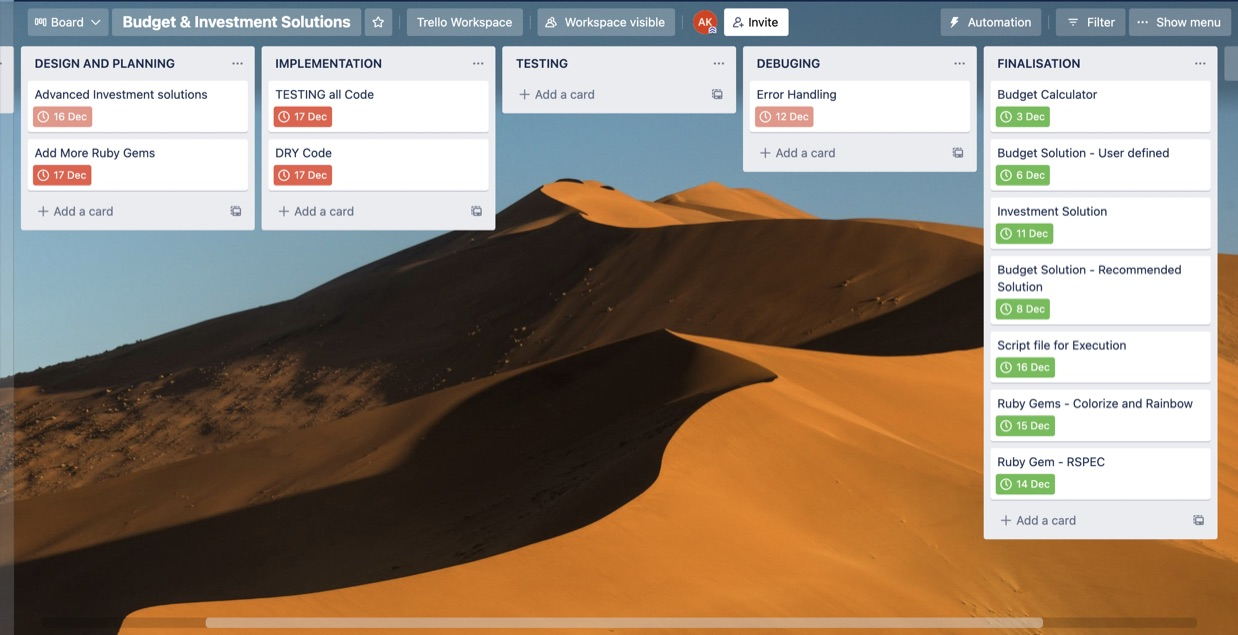
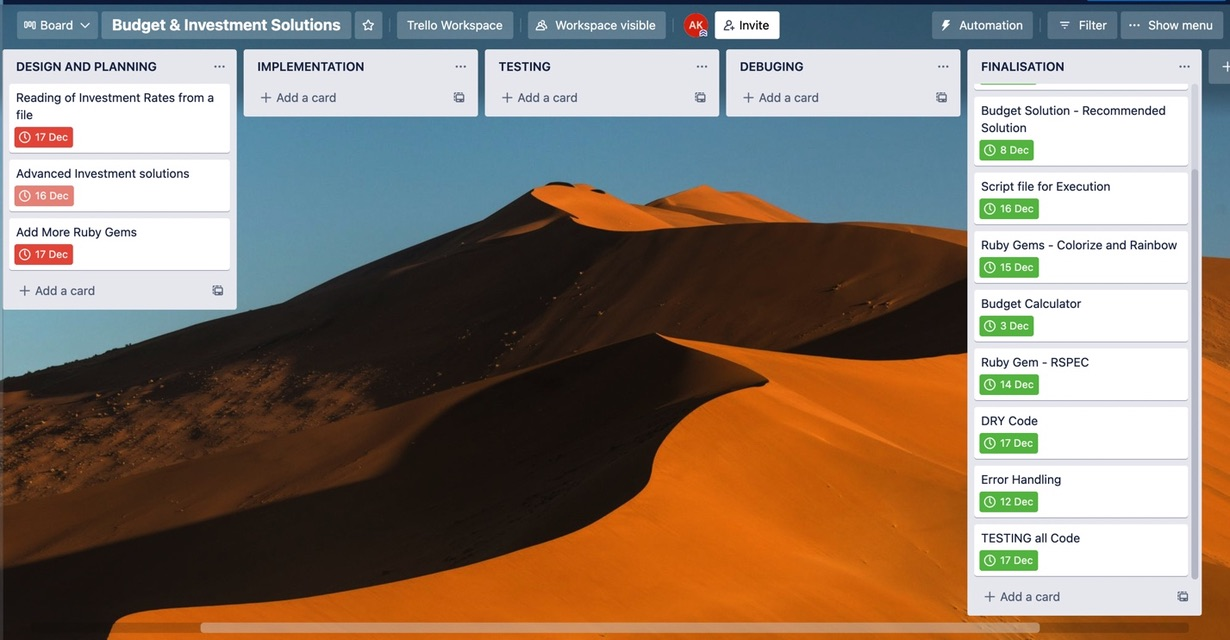
final adjustments done to code and Readme

diff --git a/src/methods.rb b/src/methods.rb
@@ -29,25 +29,31 @@ end
 
 def personal_Income(income_arr_categories)
     puts "We will now ask you for your Income details"
-    
+    income_file = File.open("Report.txt", "w")
+income_file.puts "ENTERED INCOMES:\n"
     income_arr = []
     for index in 0..(income_arr_categories.length-1) do
         puts "How much is your #{income_arr_categories[index]}/week?"
+    
         income_arr[index] = test_integer(gets.chomp)
+        income_file. puts"#{income_arr_categories[index]}=#{income_arr[index]}"
     end
+    income_file.close
     return income_arr
     #return (income_arr.sum).to_i
 end
 
 def personal_expense(expense_arr_categories )
     puts "We will now ask you for your Expense details"
-   
+    expense_file = File.open("Report.txt", "a")
+    expense_file.puts "ENTERED EXPENSES:\n"
     expense_arr = []
     for index in 0..(expense_arr_categories.length-1) do
         puts "How much is your #{expense_arr_categories[index]}/week?"
         expense_arr[index] = test_integer(gets.chomp)
+        expense_file. puts"#{expense_arr_categories[index]}=#{expense_arr[index]}"
     end
-    #return (expense_arr.sum).to_i 
+    expense_file.close
     return expense_arr
 end
 
@@ -174,7 +180,7 @@ def Increase_income_budget(income_value_arr, income_value_budgetarr, expense_val
 end
 
 def Print_expense_budget_Report(expense_cat_arr, expense_value_arr, expense_value_budgetarr) 
-    budgetreport_file = File.new("Report.txt", "w")
+    budgetreport_file = File.open("Report.txt", "a")
     puts "Your current expense is #{expense_value_arr.sum}"
     puts "Your expense can be budgeted to #{expense_value_budgetarr.sum} by doing the following:"
 

diff --git a/src/main.rb b/src/main.rb
@@ -7,15 +7,11 @@ begin
     personal_expense_categories = ["Groceries","School Fees", "Shopping", "Entertainment", "Rent/Mortgage","Other Expenses"]
     personal_income_priority = [0,2,1,3]
     personal_expense_priority = [3,2,0,5,4,1]
-    personal_income_arr = [200,100,100,100]
-    personal_expense_arr = [100,100,100,500,180,300]
     personal_income_budgetarr = []
     personal_expense_budgetarr = []
     savings_rates = [1, 2, 3, 2, 4, 6, -1, 5, 10]
     savings_rates_cat = ["Conservative Minimum", "Conservative Medium", "Coservative Max", "Balanced Minimum", "Balanced Medium", "Balance Max", "High Risk Minimum", "High Risk Medium", "High risk Max" ]
     
-
-
 
     welcome_msg
 
@@ -40,7 +36,10 @@ begin
     savings = test_integer(gets.chomp)
     puts "How many years do you want to see the savings grow"
     years = test_integer(gets.chomp)
-    
+    investment_file = File.open("Report.txt", "a")
+    investment_file.puts"\nINVESTMENT SOLUTIONS"
+    investment_file.puts" Investmetn Income = #{savings}\n"
+    investment_file.puts"\nYears to Invest = #{years}"
     for index in 0..8 do
 
         calc = ((savings_rates[index])/100.0)
@@ -48,7 +47,11 @@ begin
         result = savings * (1 + calc/12) ** (12*years)
 
         puts "Your savings for #{savings_rates_cat[index]} after #{years}years is $#{result.to_i}"
+        investment_file.puts "Your savings for #{savings_rates_cat[index]} after #{years}years is $#{result.to_i}"
     end
+investment_file.close
+
+# Error Handling
 
     rescue ZeroDivisionError
         puts "You can not divide by Zero"

diff --git a/src/methods_spec.rb b/src/methods_spec.rb
@@ -24,11 +24,6 @@ describe "test_integer" do
 
 end
 
-  # describe "questions" do 
-  #     it "should only accept Y" do
-  #          expect(questions("Y")).to eq("\t\tGreat. We will first ask you a few quesitons on your income")
-  #      end  
-  # end
   describe "budget_calculator" do
 
     it "should convert string numbers to integers" do

diff --git a/README.md b/README.md
@@ -75,7 +75,11 @@ This is the feature of the code where the user's current budget Result is displa
 
 ![BudgetResult](BudgetCalc.jpeg)
 
-Error handling here is taken care of at the inputs by ensuring that only necessary integers are allowed to be entered by the user.
+**Error handling** here is taken care of at the inputs by ensuring that only necessary integers are allowed to be entered by the user. A flow chart on how this is taken care of is shown below:
+
+![Error_handling1](Error_handling1.jpeg)
+
+As shown above if the user input is not an integer then Integer(User input) will cause an error. This will let Num be False and as a result through a rescue block the User is prompted to enter an integer. This will repeat until the user enters an actual integer
 
 ### B. User Driven Budget Solution
 
@@ -86,14 +90,21 @@ The user-driven budget solution as shown in the flow diagram below allows the us
 3. 20%
 
 Then the user has the choice to implement the same operation on another income or expense category. The user is allowed to do this until he/she chooses to stop. Once this is chosen then the process moves the the next feature. 
-
-Error-handling is taken care of at all inputs to make sure that the user only enther integers where necessary and either a "Y" or "N" where necessary.
-
 ![UserDriven](Customised.jpeg)
+
+**Error-handling** is taken care of at all inputs to make sure that the user only either integers where necessary and either a "Y" or "N" where necessary. Integer inputs are ensured the same way as shown in the flow diagram under Budget Result. The "Y" and "N" inputs are ensured using the flow diagram below:
+
+![Error_Handling2](Error_Handling2.jpeg)
+
+As shown in the figure above the flow diagram remains in a loop and keeps requesing for the user to enter "Y" or "N" until the user enters the required inputs.
 
 ### C. Application(Recommended) Budget Solution
 
-This Budget solution is created by and an algorithm program written in the application. The flow diagram for the algorithm is shown in the image below. The Main features of the algorithm are the following:
+This Budget solution is created by and an algorithm program written in the application. The flow diagram for the algorithm is shown in the image below. 
+
+![Recomended Solution](Recomended.jpeg)
+
+The Main features of the algorithm are the following:
 
 * Expenses are given priority to reduce before Increasing Income.
 * Within Expenses the priority order for reduction is the following:
@@ -117,10 +128,8 @@ This information is stored in an arra called Expense_Priority_arr.
 * It is also checked if each category has been reduced more than 40%/increased more thatn 30% because values beyond that are deemed to be unreasonable.
 * Once the above two conditions are achieved the budget solution is reached based on what has been done so far.
     
+**Error-handling** is taken care of at all inputs to make sure that the user only either integers where necessary and either a "Y" or "N" where necessary. This is the same as the flow diagrams shown earlier.
 
-
-
-![Recomended Solution](Recomended.jpeg)
 ### D. Investment Solution
 
 This feature is demonstrated in the picture below:
@@ -128,6 +137,14 @@ This feature is demonstrated in the picture below:
 
 As shown the user inputs his/her investment amount and and then number of years the user plans to invest it. The different rates at which the investment grows are stored in a file and read from it. The result is output using a Compound interes formula.
 
+**Error-handling** is taken care of at all inputs to make sure that the user only enters integers where necessary 
+To take care of more Errors in the application that are unexpected the following code has been inserted:
+
+![Error handling3](Error_Handling3.jpeg)
+
+As it can be noticed "ZeroDivisionError" is being taken care of by the first resuce block. A more user friendly message ("You can not divide by Zero") is put out when this happens.
+
+For all the other unexpected stadard Errors the rescue section with no arguements is put out and the message  used is "Something unexpected has happened". Hence in the event of errors more user friendly messages is put out.
 
 ## QUESTION R7 - USER INTERACTION AND EXPERIENCE
 
@@ -200,7 +217,18 @@ Details within each block are expanded in the answers to Question R6 Above.
 
 ## QUESTION R9 - PROJECT IMPLEMENTATION PLAN
 Project Plan is managed with Trello sofware and the link to the plan is https://trello.com/b/ZmrwGmDO/budget-investment-solutions.
+
+The final status is of the plan is as shown in the figure below:
+
 ![Project plan](Project_Plan.jpeg)
+
+As it can be observed the following activities are still in Design and implementation stage:
+* Reading Investment Rates from a file
+* Advanced Investment Solutions
+* Adding more Ruby Gems
+
+The rest have been completed to satisfaction.
+
 
 ## QUESTION R10 - APPLICATON HELP DOCUMENTATION
 
